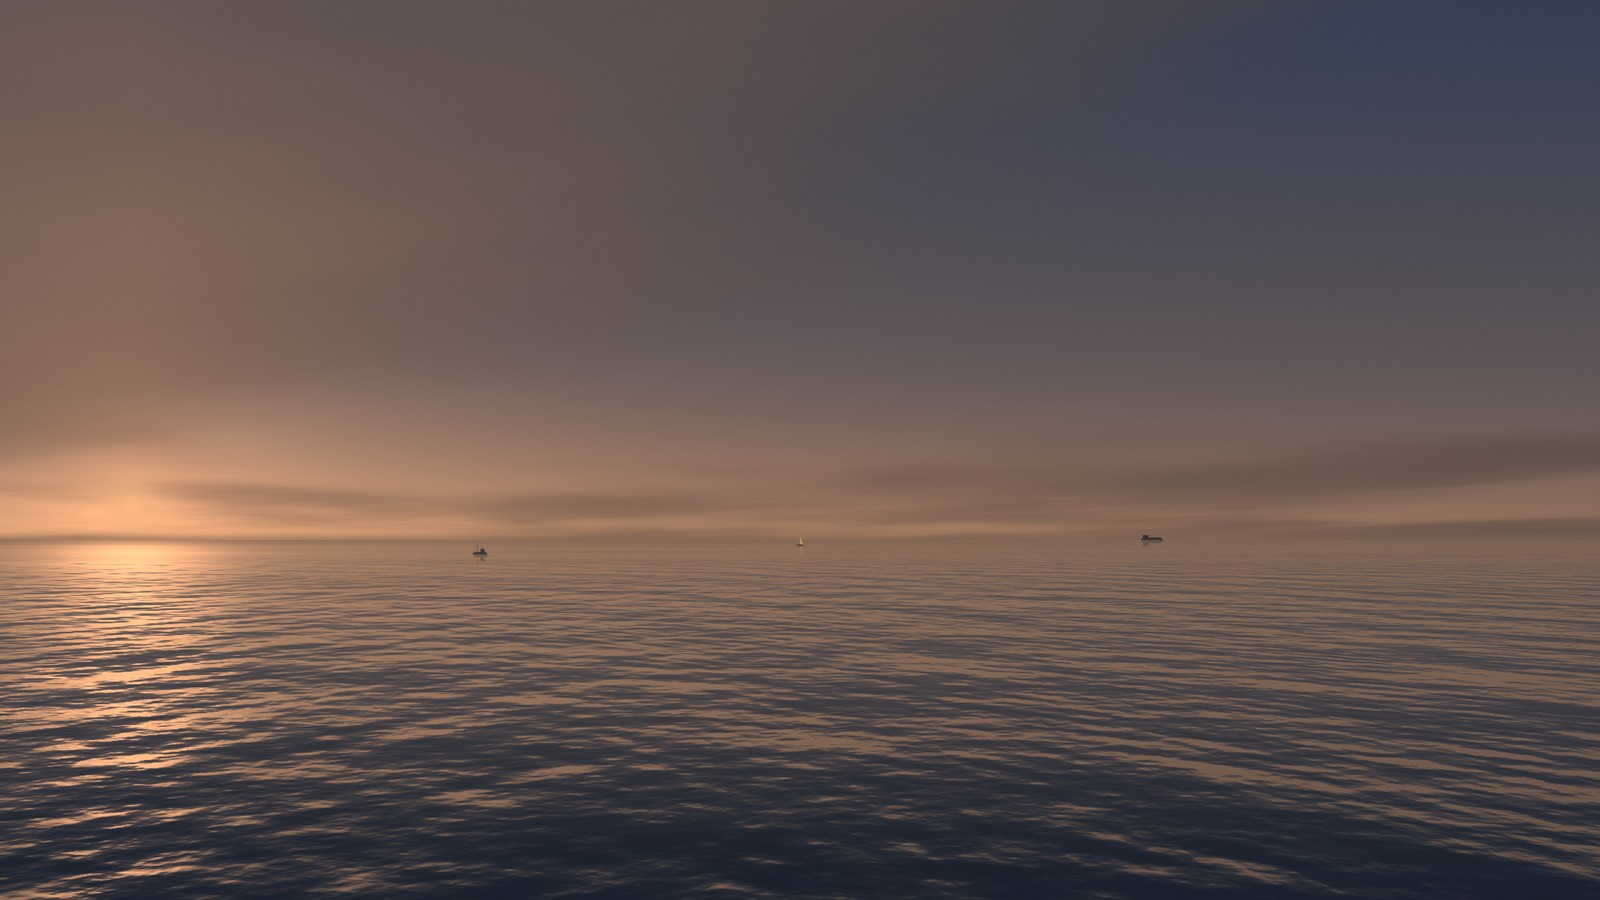
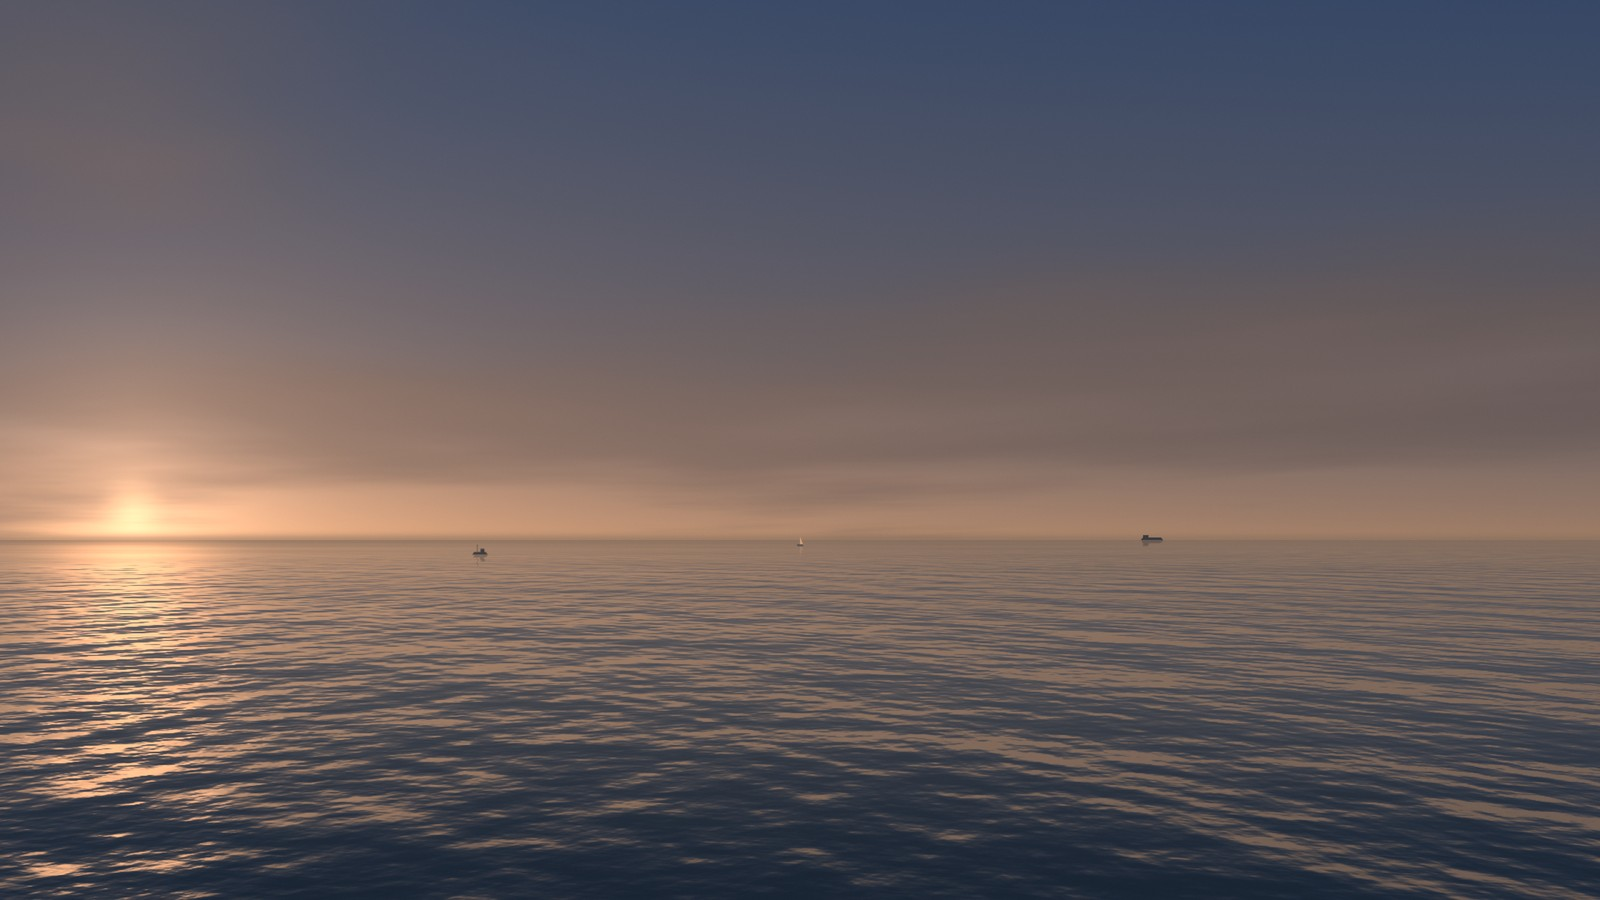
Weight the generated weather towards fair days
Long grey spells read as gloomy on a screen meant to be restful, so clear
sky rises from 46% to 75% of the time and overcast falls from 17% to 3%.
Daytime colours are bluer and overcast is a pale, bright grey. The sun gets
a brighter disc with a soft halo so it doesn't look dull on the new sky.

diff --git a/Sky.swift b/Sky.swift
@@ -210,8 +210,10 @@ struct Weather {
 
     static func at(_ date: Date) -> Weather {
         let hours = date.timeIntervalSince1970 / 3600
-        let cover = smooth(0.3, 0.85, drifting(hours / 5, seed: 1) * 0.6 + drifting(hours / 17, seed: 2) * 0.4)
-        let rain = smooth(0.6, 0.85, cover) * smooth(0.5, 0.72, drifting(hours / 3, seed: 3))
+        // Fair weather is the norm. Long grey spells are realistic but not restful, and restful is
+        // what this is for.
+        let cover = smooth(0.45, 1.0, drifting(hours / 5, seed: 1) * 0.6 + drifting(hours / 17, seed: 2) * 0.4)
+        let rain = smooth(0.35, 0.6, cover) * smooth(0.6, 0.8, drifting(hours / 3, seed: 3))
         return Weather(
             cover: cover,
             wind: min(1, drifting(hours / 7, seed: 5) * 0.8 + cover * 0.25),
@@ -260,14 +262,13 @@ func whale(at date: Date) -> SIMD3<Float> {
 }
 
 // Only when rain and a low sun coincide, as with a real one.
-func rainbowStrength(_ weather: Weather, sunAltitude: Double, date: Date) -> Double {
-    smooth(0.68, 0.8, drifting(date.timeIntervalSince1970 / 3600 / 2, seed: 8))
-        * smooth(0.15, 0.6, weather.rain) * smooth(0.02, 0.1, sunAltitude) * (1 - smooth(0.5, 0.7, sunAltitude))
+func rainbowStrength(_ weather: Weather, sunAltitude: Double) -> Double {
+    smooth(0.15, 0.6, weather.rain) * smooth(0.02, 0.1, sunAltitude) * (1 - smooth(0.5, 0.7, sunAltitude))
         * (1 - 0.5 * smooth(0.6, 1, weather.cover)) * (1 - weather.fog)
 }
 
-// Colour by solar altitude. Daylight is held dim and grey on purpose: a bright sky on a second
-// screen pulls the eye as much as motion does.
+// Colour by solar altitude. Daylight is soft and well short of a real sky's brightness, because a
+// glaring second screen pulls the eye as much as motion does.
 private func colour(_ hex: UInt32) -> SIMD3<Float> {
     SIMD3(Float((hex >> 16) & 255), Float((hex >> 8) & 255), Float(hex & 255)) / 255
 }
@@ -280,9 +281,9 @@ private let palette: [(alt: Double, colours: [SIMD3<Float>])] = [
     (-6, [0x141b33, 0x453644, 0x262333, 0x0a0c15, 0x5a3238]),
     (-1, [0x232d4b, 0x7d4c3b, 0x4a3435, 0x10121d, 0x8a4526]),
     (3, [0x303b54, 0x96694d, 0x655045, 0x161a26, 0xa56435]),
-    (10, [0x3a475c, 0x7d7468, 0x585c5e, 0x1c2632, 0x6d5337]),
-    (30, [0x3e4c60, 0x6b7377, 0x515e65, 0x212d38, 0x3f3b33]),
-    (90, [0x3b4c60, 0x6f7a80, 0x55636b, 0x24313b, 0x3a3a35]),
+    (10, [0x41608a, 0x9a9488, 0x627a84, 0x1d3648, 0x6d5337]),
+    (30, [0x44699a, 0x93aebb, 0x5f8797, 0x1f4356, 0x3f3b33]),
+    (90, [0x3f6b9e, 0x9bb7c3, 0x628c9c, 0x214a5d, 0x3a3a35]),
 ].map { (alt: $0.0, colours: $0.1.map(colour)) }
 
 func paletteAt(altitude: Double) -> [SIMD3<Float>] {

diff --git a/Renderer.swift b/Renderer.swift
@@ -212,13 +212,13 @@ final class SceneRenderer: NSObject, MTKViewDelegate {
             return (colour + (grey - colour) * amount) * dim
         }
         let colours = paletteAt(altitude: sunDegrees)
-        let horizonColour = muted(colours[1], 0.35 * overcast, 1 - 0.1 * overcast - 0.12 * rain)
-        let farColour = muted(colours[2], 0.3 * overcast, 1 - 0.1 * overcast - 0.1 * rain)
+        let horizonColour = muted(colours[1], 0.3 * overcast, 1 - 0.03 * overcast)
+        let farColour = muted(colours[2], 0.25 * overcast, 1 - 0.03 * overcast)
         let haze = (horizonColour + farColour) * 0.5
-        shared.skyTop = muted(colours[0], 0.3 * overcast, 1 - 0.14 * overcast - 0.12 * rain)
+        shared.skyTop = muted(colours[0], 0.35 * overcast, 1 - 0.03 * overcast)
         shared.skyHor = horizonColour + (haze * 1.05 - horizonColour) * 0.7 * fog
         shared.seaFar = farColour + (haze - farColour) * 0.8 * fog
-        shared.seaNear = muted(colours[3], 0.25 * overcast, 1 - 0.1 * overcast)
+        shared.seaNear = muted(colours[3], 0.25 * overcast, 1 - 0.04 * overcast)
         // Fades before the sun wraps from one side of the view to the other, behind the viewer.
         shared.glow = colours[4] * (1 - 0.72 * overcast) * Float(1 - smooth(0.55, 0.72, abs(skyX(sunPos.az) - 0.5)))
         shared.fog = fog
@@ -226,7 +226,7 @@ final class SceneRenderer: NSObject, MTKViewDelegate {
         shared.rainX = Float(weather.rainX)
         shared.night = Float(night)
         shared.sun = SIMD2(Float(skyX(sunPos.az)), Float(sunY))
-        shared.sunUp = Float(smooth(-0.01, 0.03, sunPos.alt)) * (1 - 0.72 * overcast) * (1 - 0.45 * fog)
+        shared.sunUp = Float(smooth(-0.01, 0.03, sunPos.alt)) * (1 - 0.6 * overcast) * (1 - 0.45 * fog)
         shared.lowSun = Float(1 - smooth(0, 0.3, sunY - horizonFraction))
         shared.moon = SIMD2(Float(skyX(moonPos.az)), Float(skyY(moonPos.alt)))
         shared.moonUp = Float(smooth(-0.01, 0.06, moonPos.alt) * moonIllumination(sun: sunEq, moon: moonEq) * (0.2 + 0.8 * night)) * (1 - 0.8 * overcast) * (1 - 0.5 * fog)
@@ -244,7 +244,7 @@ final class SceneRenderer: NSObject, MTKViewDelegate {
         shared.boats = boats(at: date)
         shared.whale = whale(at: date)
         shared.whale.z *= Float(1 - night) * (1 - fog)
-        shared.rainbow = SIMD3(Float(skyX(sunPos.az + .pi)), Float(-sunPos.alt), Float(rainbowStrength(weather, sunAltitude: sunPos.alt, date: date)))
+        shared.rainbow = SIMD3(Float(skyX(sunPos.az + .pi)), Float(-sunPos.alt), Float(rainbowStrength(weather, sunAltitude: sunPos.alt)))
 
         skyView.draw()
         if !seaAnimating { seaView.draw() }

diff --git a/README.md b/README.md
@@ -16,18 +16,18 @@ A day takes a real day. The sun, moon, moon phase and bright stars are calculate
 
 | | How it behaves | How often |
 |---|---|---|
-| Clear sky | Thin high cloud at most | 46% of the time |
-| Overcast | Builds over about two hours at its quickest | 17% |
+| Clear sky | Thin high cloud at most | 75% of the time |
+| Overcast | A pale, bright grey that builds over two hours or more | 3% |
 | Fog | The horizon dissolves | 5% |
-| Rain | Distant curtains under the cloud, never on screen | 7% |
-| Calm and rough seas | Follow the wind, gradually | 27% and 26% |
+| Rain | A distant shower with the sun still out, never on screen | 3% |
+| Calm and rough seas | Follow the wind, gradually | 34% and 18% |
 | Boats | A freighter, a yacht and a fishing boat, each taking hours to cross, with lights at night | At least one in view 65% of the time |
 | Whale | A far-off blow that fades in and out over 40 seconds, in daylight only | About 6 scheduled a day, fewer seen |
-| Rainbow | Only when rain and a low sun coincide | About 30 hours a year at Cape Town's latitude |
+| Rainbow | Only when rain and a low sun coincide | About 75 hours a year at Cape Town's latitude |
 | Tall ship | Passes about once a week | About 155 hours a year |
 | Iceberg | Takes two days to pass | About 415 hours a year |
 
-The figures come from sampling the generator across three simulated years, counting clear as cover below 25%, overcast as above 75%, and fog and rain as above 50% and 30% strength. Weather is generated, not fetched, and it follows the clock, so restarting the app doesn't change it.
+The figures come from sampling the generator across three simulated years, counting clear as cover below 25%, overcast as above 75%, and fog and rain as above 50% and 30% strength. Weather is generated, not fetched, so it won't match the sky outside your window. It's weighted towards fair days on purpose, because long grey spells aren't restful. It follows the clock, so restarting the app doesn't change it.
 
 Some things are deliberately missing: lightning, shooting stars, leaping dolphins and birds. The first three are sudden or fast, and birds at this distance look like dirt on the screen.
 
